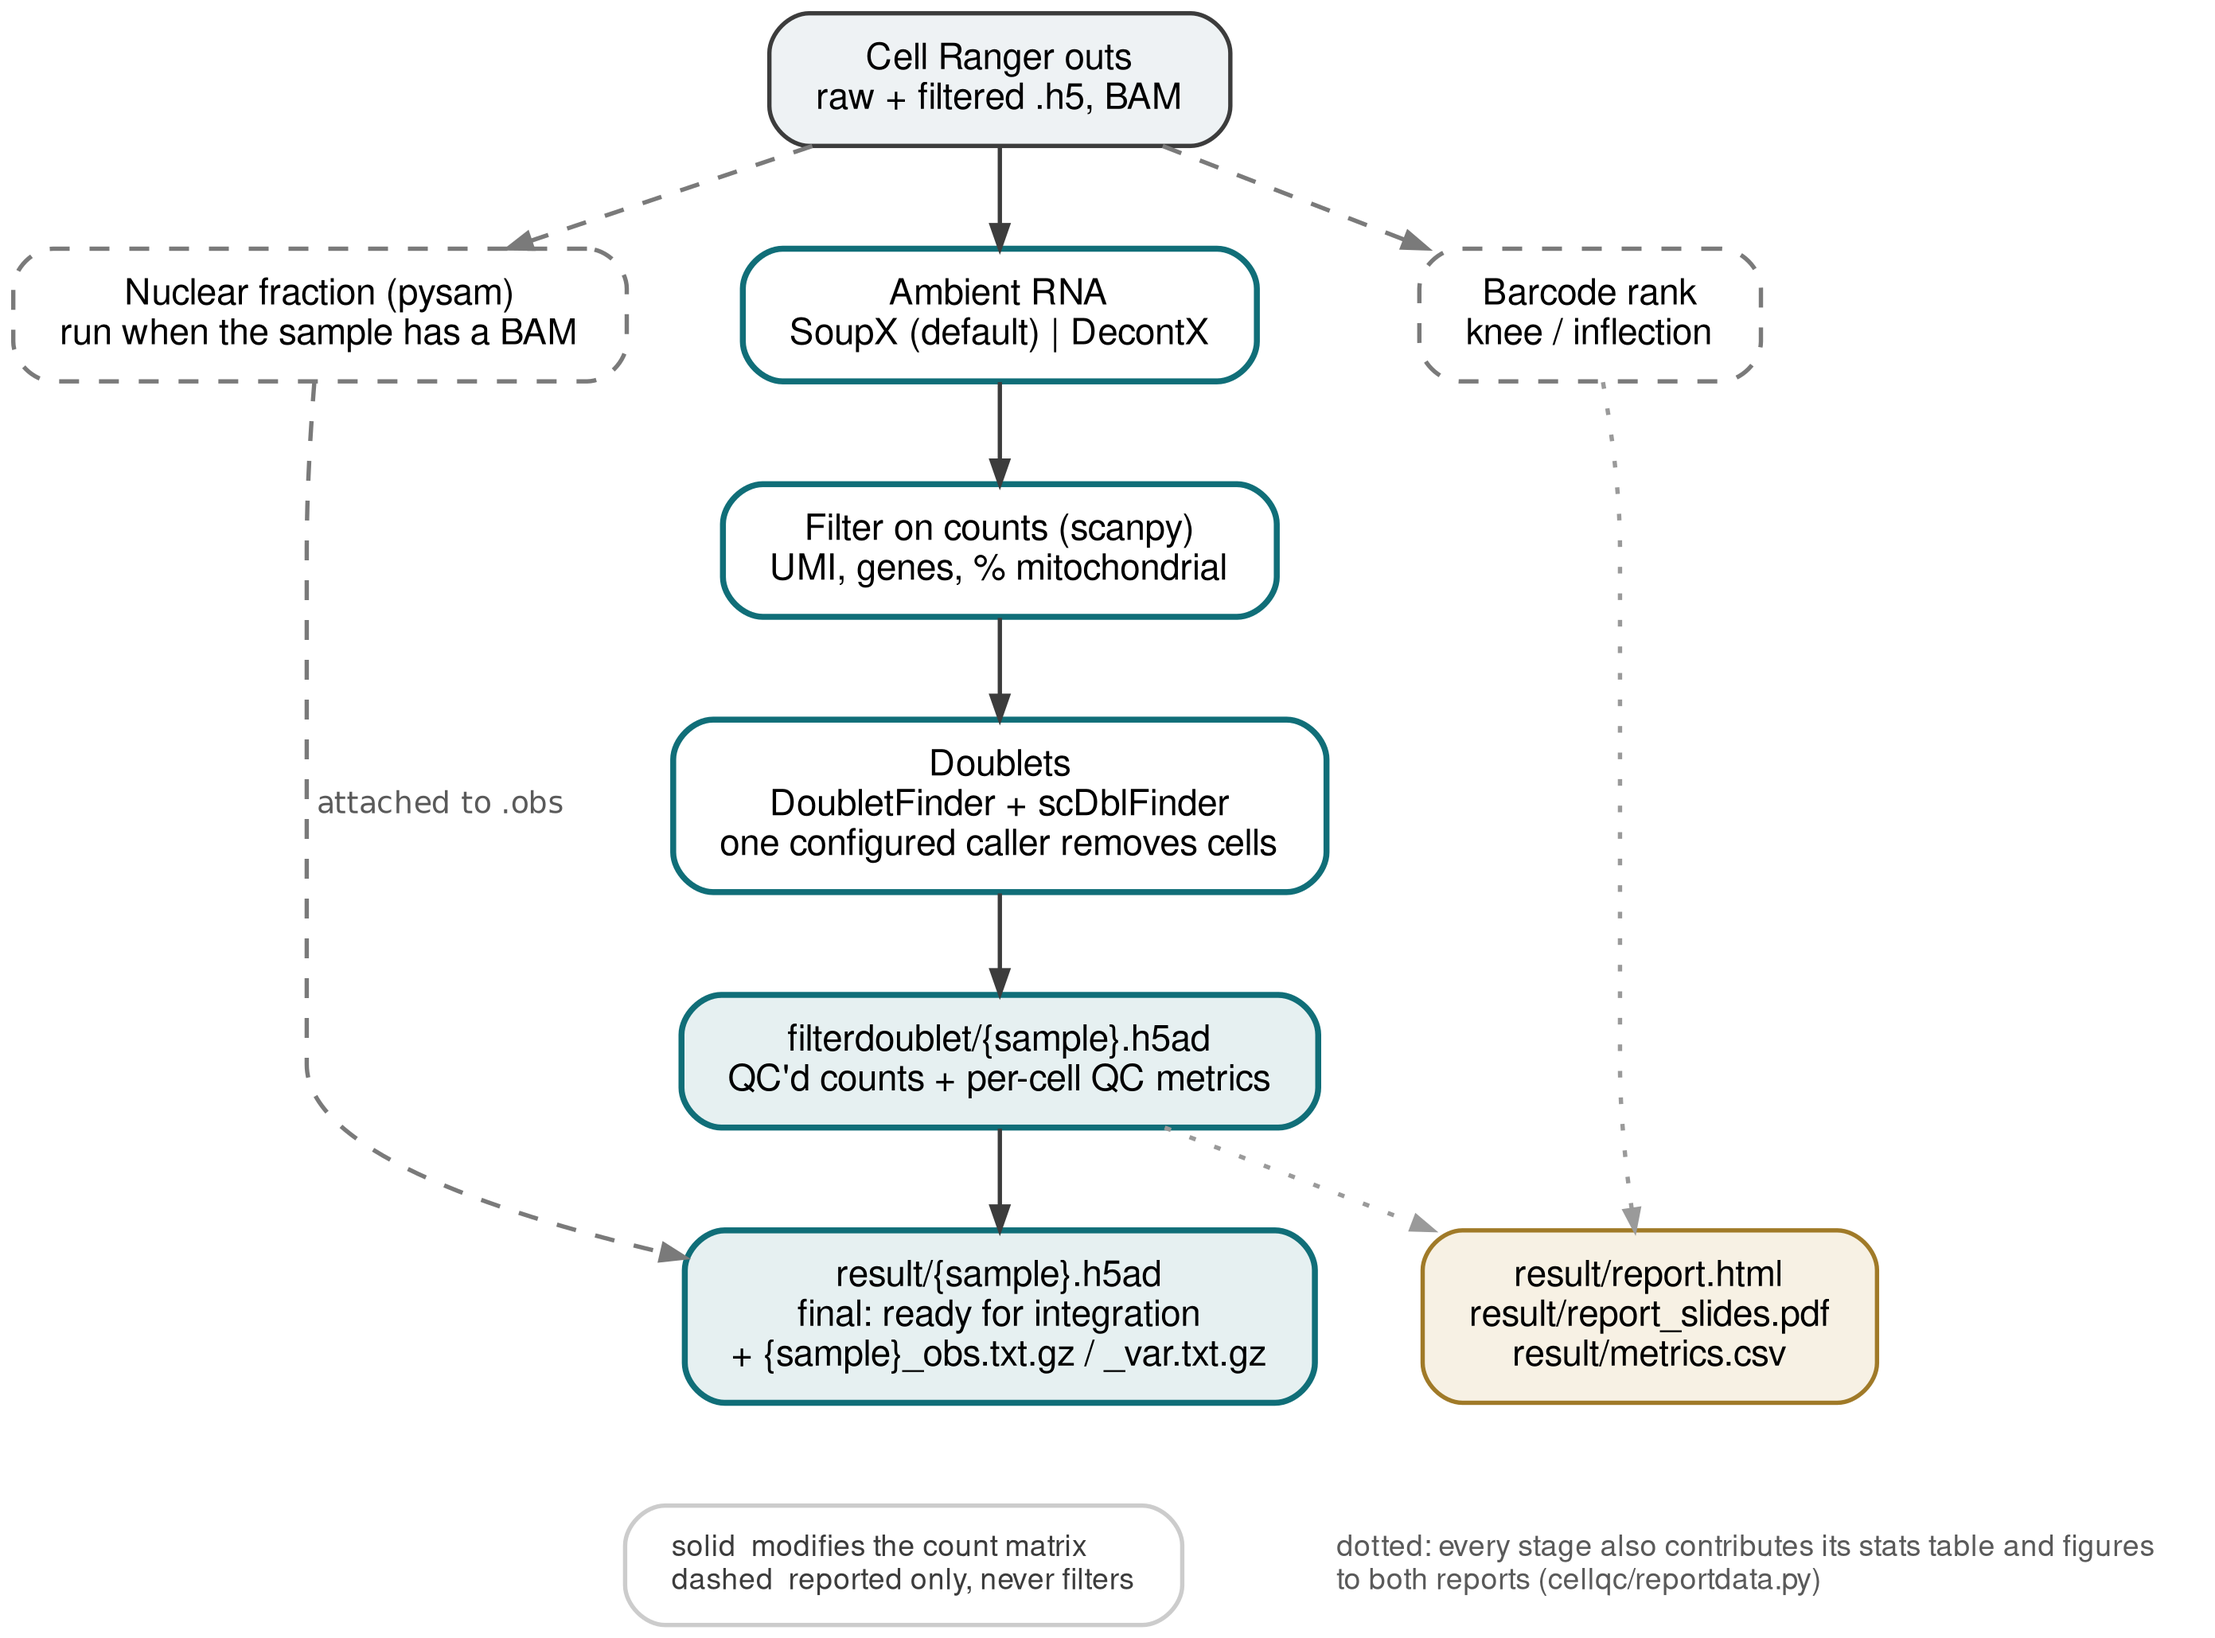
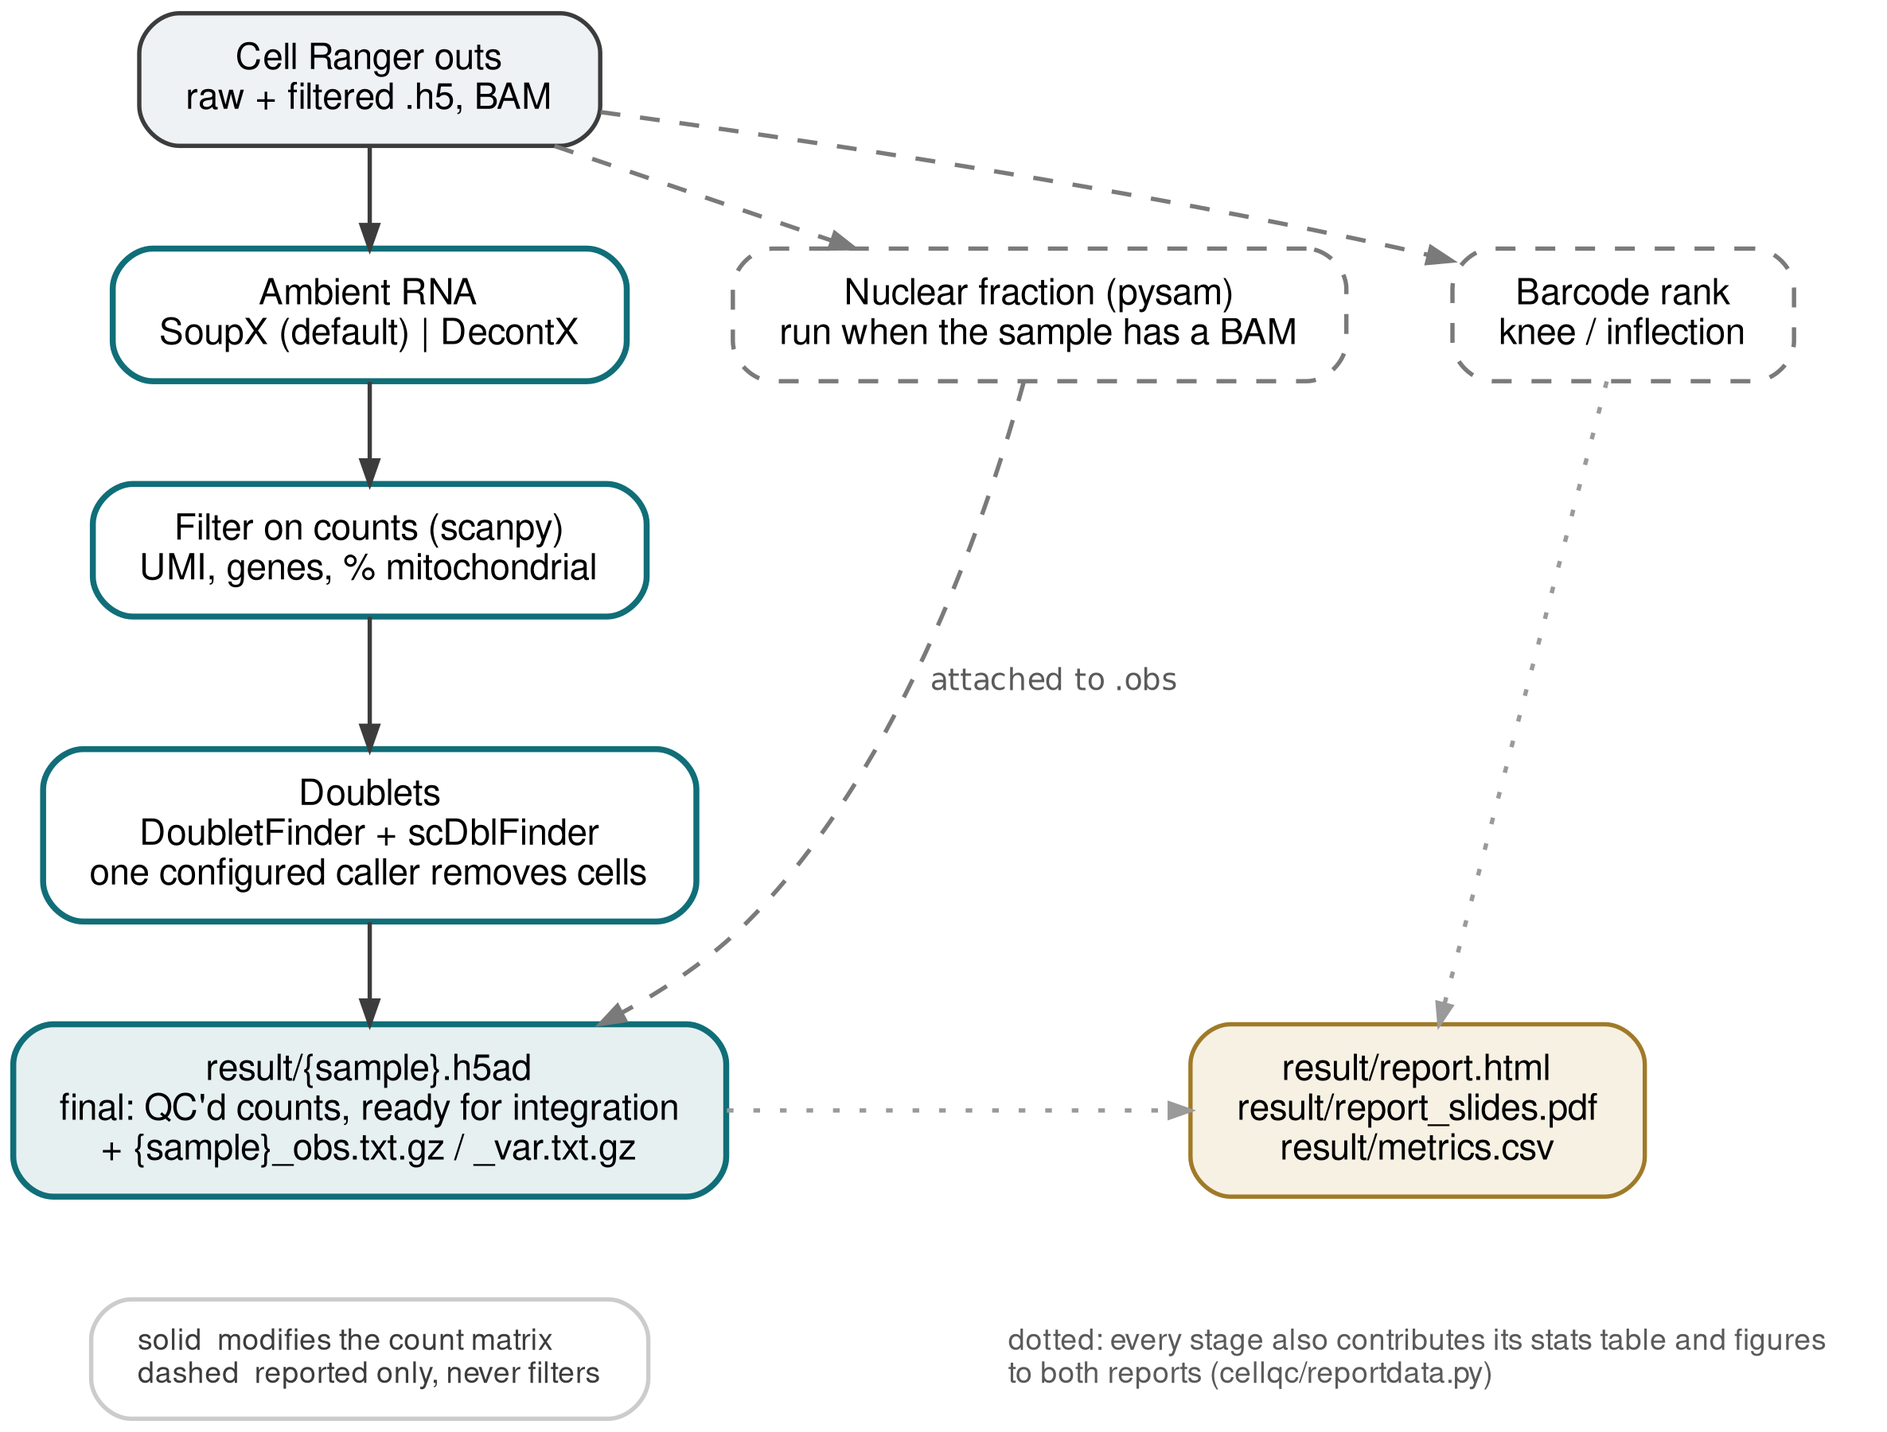
Make filterdoublet's matrix temp(); drop its obs/var dumps
Checked against the reference run: filterdoublet/{s}.h5ad and result/{s}.h5ad
have identical X (same sum, same shape), identical var, no .raw, no obsm and no
extra layers. result/ additionally carries the four nuclear-fraction columns,
and its barcodes are sample-prefixed -- stripping the prefix recovers the
filterdoublet names exactly. So the file was a 72 MB per-sample duplicate whose
only unique content was a barcode prefix, roughly half of what a run writes.

It is now temp(): postproc consumes it and Snakemake deletes it. Its _obs/_var
dumps are gone with it, since they described the same cells and the same genes
as result/'s. final_targets() must not request it -- that would stop the
deletion -- so the comment says so.

The workflow diagram loses the intermediate box: the spine now runs from the
doublet step straight to result/{sample}.h5ad, which is what a reader cares
about.

Claude-Session: https://claude.ai/code/session_01FCc2NyB2MybpnbMDbEQqK7

diff --git a/cellqc/scripts/filterdoublet.py b/cellqc/scripts/filterdoublet.py
@@ -25,8 +25,6 @@ from cellqc import qcutil
 in_h5ad = snakemake.input['h5ad']
 in_meta = list(snakemake.input['metadata'])
 out_h5ad = snakemake.output['h5ad']
-out_obs = snakemake.output['obs']
-out_var = snakemake.output['var']
 out_summary = snakemake.output['summary']
 out_concordance = snakemake.output['concordance']
 
@@ -131,7 +129,6 @@ def main():
 
 	filtered = adata[keep].copy()
 	filtered.write_h5ad(out_h5ad, compression='gzip')
-	qcutil.write_obs_var(filtered, out_obs, out_var)
 
 	summary['ncell_before'] = n_before
 	summary['ncell_after'] = int(keep.sum())

diff --git a/README.md b/README.md
@@ -209,14 +209,19 @@ the true heterotypic count. The bias direction is known, constant, and stated in
 |---|---|
 | `result/{sample}.h5ad` | **The final matrix.** QC'd counts prepared for integration: sample-prefixed barcodes, unique var names, no `raw` layer, nuclear fraction attached when available. `.obs` carries the QC metrics and every doublet caller's score/class; `.uns` records which caller decided removal. |
 | `result/{sample}_obs.txt.gz`, `result/{sample}_var.txt.gz` | `.obs` and `.var` as gzipped TSVs, indexed by `barcode` and `gene`. Everything the matrix knows about each cell and each feature, readable without anndata. |
-| `filterdoublet/{sample}.h5ad` | The same cells before the integration prep — original barcodes, no sample prefix, no nuclear fraction. With its own `_obs`/`_var` dumps. |
 | `result/metrics.csv` | Every scalar the run produced, one row per sample: Cell Ranger metrics, knee/inflection, ambient contamination per method, per-criterion filter counts, each doublet caller's count and their concordance, nuclear-fraction quartiles, and the retained fraction. Assembled from the same collected data as the reports, so it cannot disagree with them — join on `sampleid` instead of scraping a number out of the HTML. |
 | `result/report.html` | Self-contained HTML QC report; all figures inlined. |
 | `result/report_slides.pdf` | Presentation-ready beamer deck: Cell Ranger metrics, barcode rank, ambient RNA, QC violins, nuclear fraction, doublet calls, and a limitations slide. |
 
 Per-stage outputs (`ambient/`, `barcoderank/`, `nuclear_fraction/`, `filterbycount/`, `doubletfinder/`,
-`scdblfinder/`, `filterdoublet/`) keep the statistics tables and figures. Every figure is written as a
-vector PDF with editable text alongside a 300 dpi PNG for the HTML report.
+`scdblfinder/`) keep the statistics tables and figures. Every figure is written as a vector PDF with
+editable text alongside a 300 dpi PNG for the HTML report.
+
+The intermediate matrices (`filterbycount/{sample}.h5ad`, `filterdoublet/{sample}.h5ad`) are working files.
+`filterdoublet/`'s is marked `temp` and deleted once `result/{sample}.h5ad` is written: it held the same
+cells and the same counts, differing only in the barcode prefix and the nuclear-fraction columns, so
+keeping it wrote every count matrix to disk twice. To keep it, run the workflow through Snakemake directly
+with `--notemp` — the `cellqc` CLI does not pass Snakemake flags through.
 
 ### An example
 

diff --git a/CHANGELOG.md b/CHANGELOG.md
@@ -6,7 +6,8 @@
   takes away — and the pre-integration matrix moved from `result/` to `filterdoublet/{sample}.h5ad`, where
   every other stage's output already lives. The `postproc/` directory is gone. Downstream code that read
   `postproc/{sample}.h5ad` should read `result/{sample}.h5ad`; code that read the old `result/{sample}.h5ad`
-  wants `filterdoublet/{sample}.h5ad`. This resolves the open question in `docs/v0.2.0_plan.md` §9b.3.
+  wants `filterdoublet/{sample}.h5ad`, which is now `temp()` — see below. This resolves the open question
+  in `docs/v0.2.0_plan.md` §9b.3.
 - Removed `doublet.skip`. Doublet detection always runs; the callers are `doublet.run` and a caller you do
   not want is left out of it, which is the same convention `nuclear_fraction` already used (no skip flag).
   `doublet.skip: false` warns and is dropped. `doublet.skip: true` is an **error**, not a warning: there is
@@ -43,9 +44,14 @@
   and their concordance, nuclear-fraction quartiles, retained fraction. Assembled from the same
   `reportdata.collect()` the reports use, so it cannot disagree with them, and it means nothing downstream
   has to scrape a number out of the HTML. 76 columns on the reference sample.
-- `.obs` and `.var` are written beside every kept matrix as gzipped TSVs (`{sample}_obs.txt.gz`,
+- `.obs` and `.var` are written beside `result/{sample}.h5ad` as gzipped TSVs (`{sample}_obs.txt.gz`,
   `{sample}_var.txt.gz`), indexed by `barcode` and `gene`, so the per-cell QC metrics and the feature table
   can be read and joined without anndata.
+- `filterdoublet/{sample}.h5ad` is `temp()`: Snakemake deletes it once `result/{sample}.h5ad` is written.
+  It held the same cells and the same counts as the final matrix, differing only in the barcode prefix,
+  the uniquified var names and the nuclear-fraction columns, so keeping it wrote every count matrix to
+  disk twice — 72 MB per sample as written on the reference cohort (~35 MB of actual disk there, since
+  that filesystem compresses), against ~207 MB for the whole run. `snakemake --notemp` keeps it.
 - README documents *why* the expected doublet rate is linear in cell yield — droplet occupancy is Poisson,
   so the multiplet fraction among occupied droplets is `1 - λ/(e^λ - 1) ≈ λ/2` — with the references
   behind the rule of thumb (Bloom 2018 PeerJ 6:e5578; 10x Chromium user guides, ≈0.8% per 1,000 cells

diff --git a/CLAUDE.md b/CLAUDE.md
@@ -109,12 +109,16 @@ The R doublet steps write only a per-barcode metadata TSV; Python applies it. R 
 which keeps a second serializer out of the count path.
 
 **`result/` is what a user takes away**, and the final matrix is `postproc`'s output — not an intermediate
-in a `postproc/` directory that readers mistook for a leftover. Every stage writes to `<rulename>/`,
-including `filterdoublet/`; only the final matrix, the doublet statistics and the two reports live in
-`result/`. Both kept matrices carry `_obs.txt.gz`/`_var.txt.gz` dumps written by `qcutil.write_obs_var`,
-indexed by `barcode`/`gene`, so `.obs` and `.var` are readable without anndata. Rules use **named**
-outputs (`h5ad=`, `obs=`, `var=`) — with five outputs on `filterdoublet`, positional indices were a bug
-waiting to happen.
+in a `postproc/` directory that readers mistook for a leftover. Every stage writes to `<rulename>/`; only
+the final matrix, the doublet statistics and the two reports live in `result/`. `result/{s}.h5ad` carries
+`_obs.txt.gz`/`_var.txt.gz` dumps written by `qcutil.write_obs_var`, indexed by `barcode`/`gene`, so `.obs`
+and `.var` are readable without anndata. Rules use **named** outputs (`h5ad=`, `summary=`, …) rather than
+positional indices.
+
+`filterdoublet/{s}.h5ad` is `temp()`. It is the same cells and counts as `result/{s}.h5ad`, differing only
+in the barcode prefix, unique var names and the nuclear-fraction columns, so keeping it wrote every count
+matrix to disk twice (72 MB per sample on the reference cohort). **Do not add it to `final_targets()`** —
+requesting it would stop Snakemake ever deleting it.
 
 **No step has a skip flag.** Doublet detection is selected by `doublet.run` (schema: at least one
 caller), so `doublet.skip` is gone — `config.smk` errors on `skip: true` rather than quietly writing a
